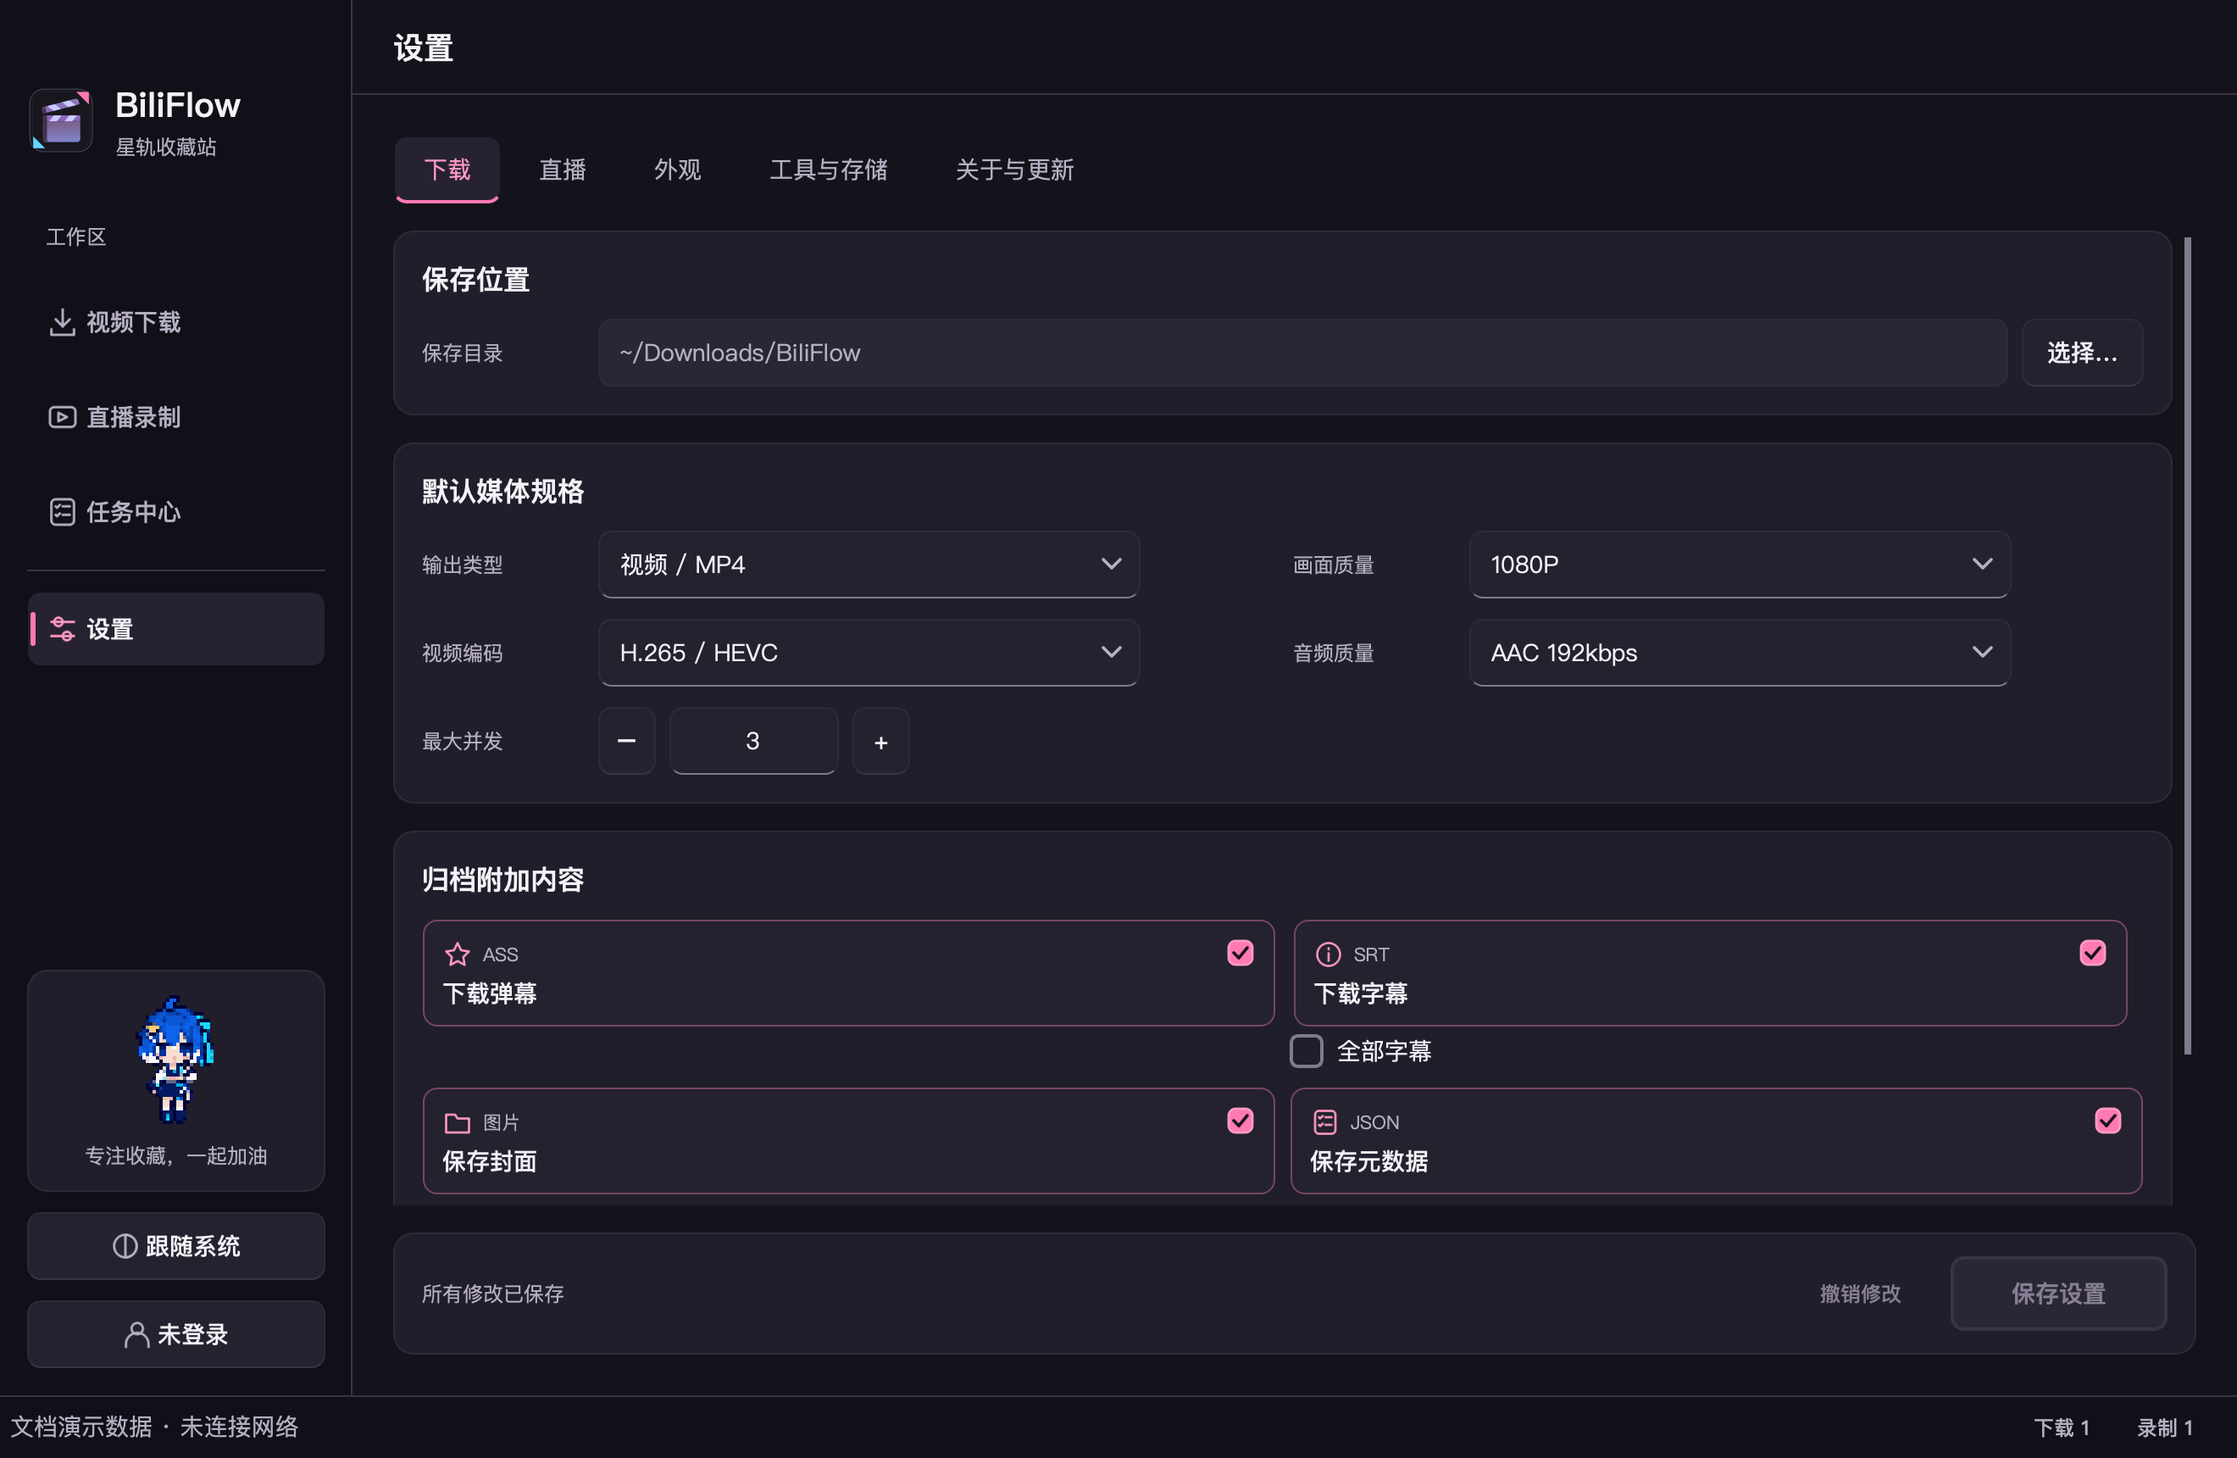
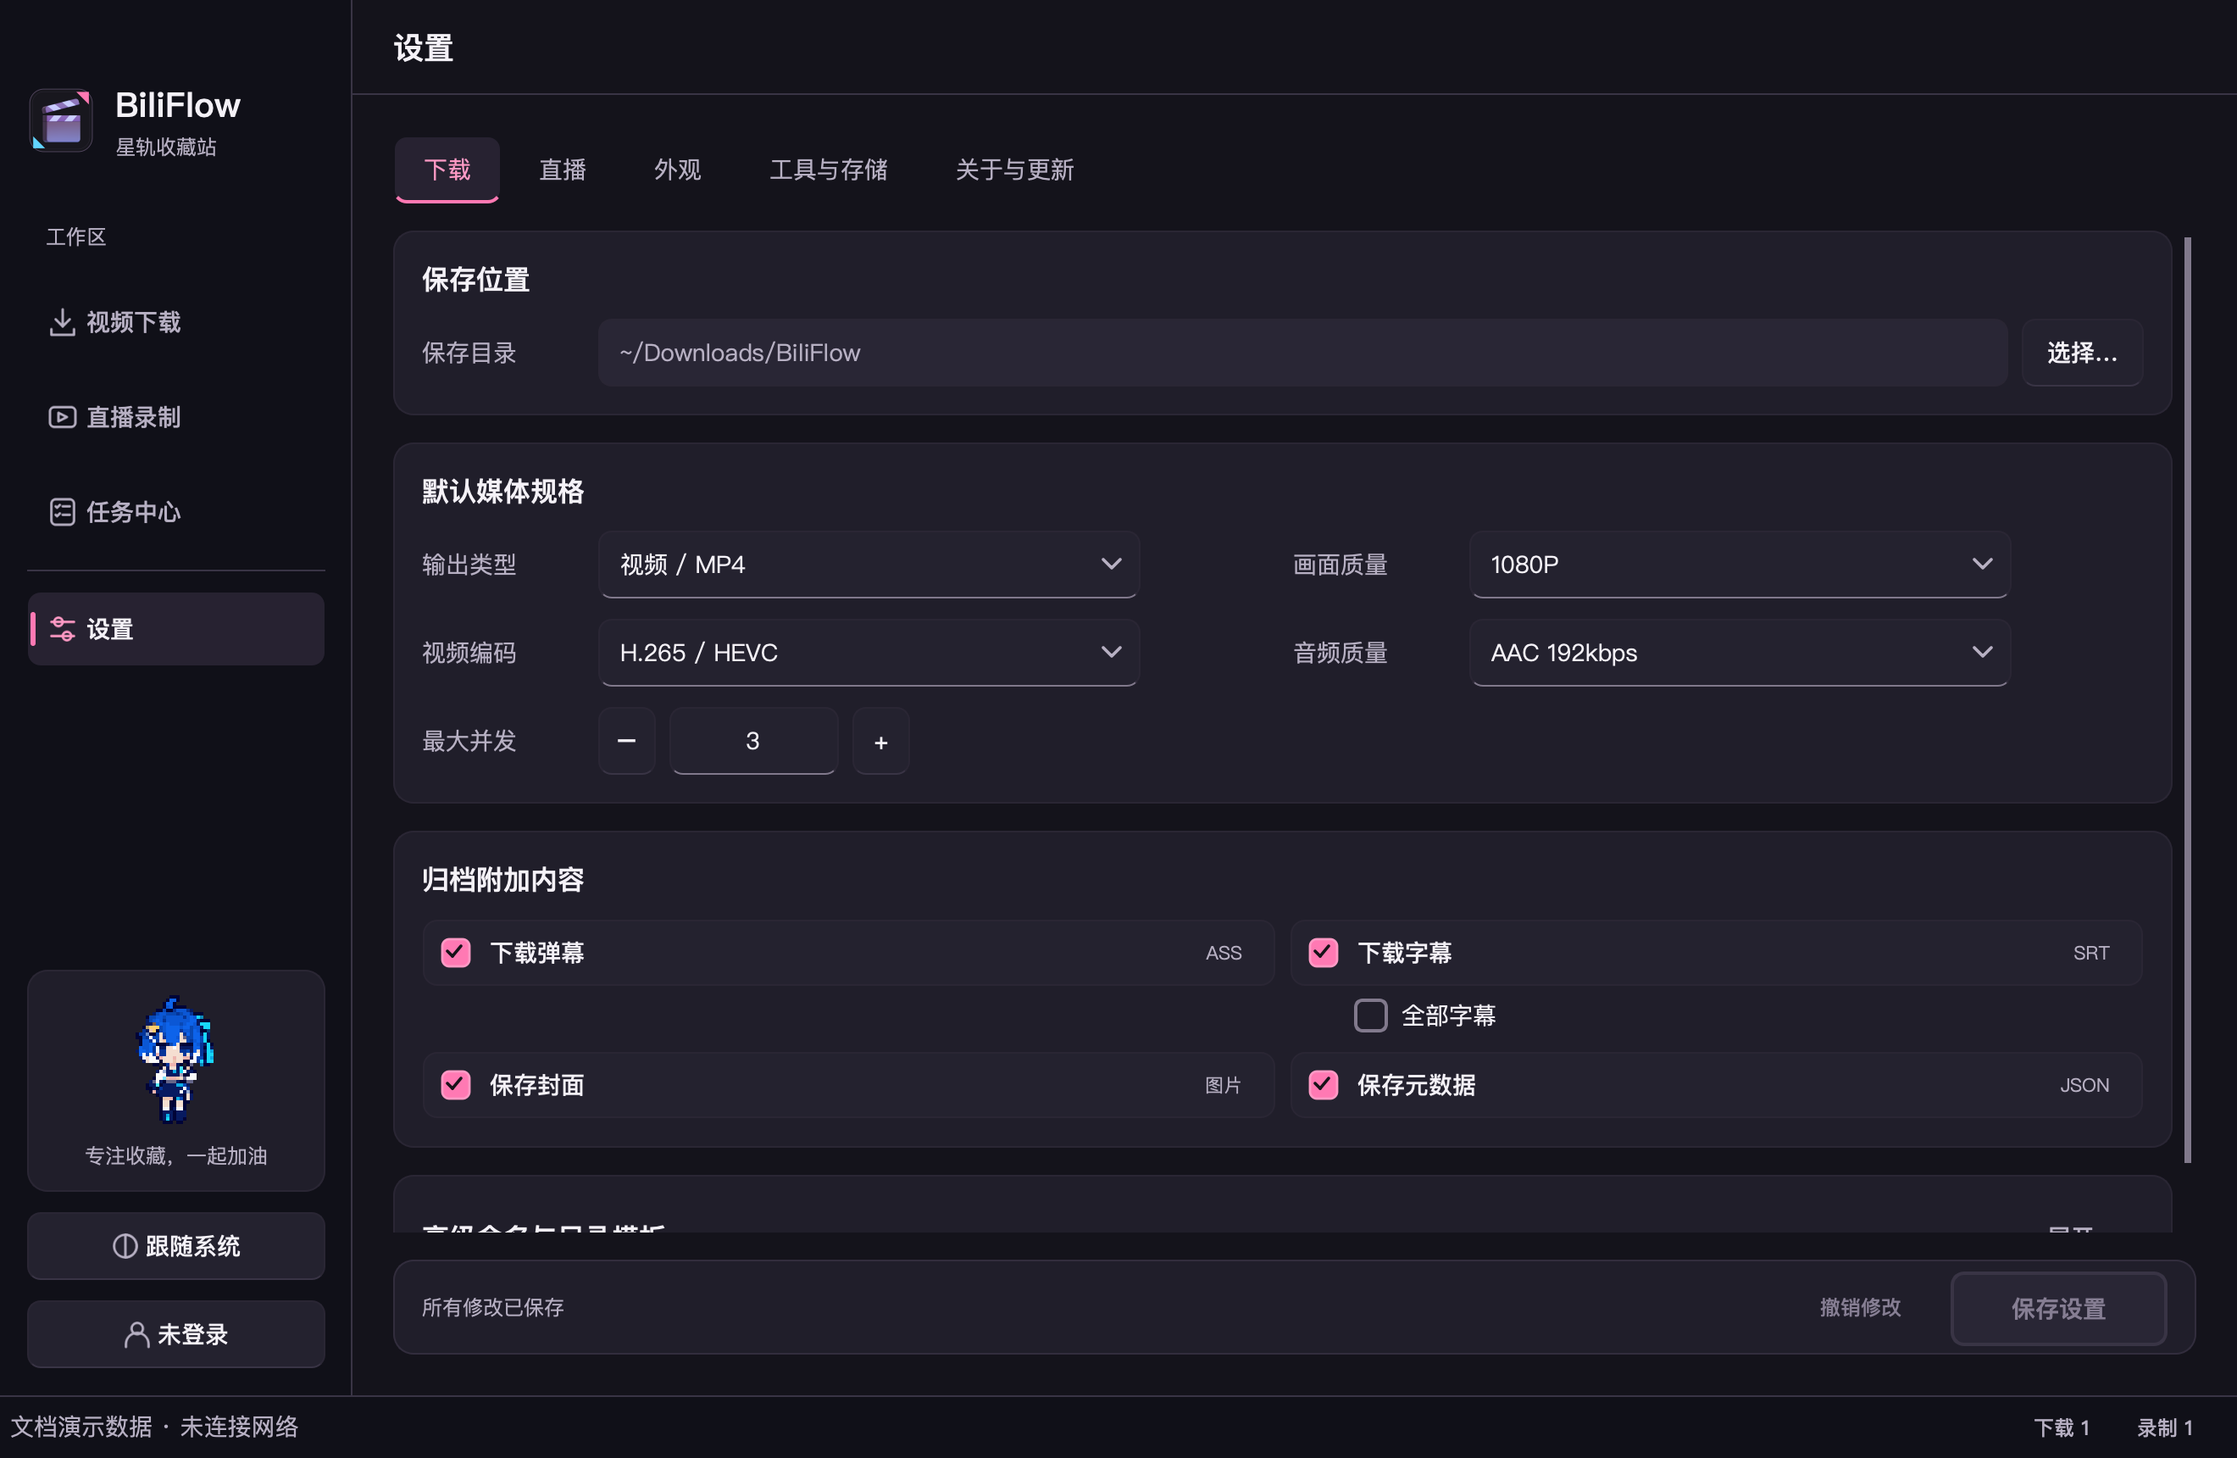
docs: document third Fluent refinement and native verification [skip ci]

diff --git a/docs/FLUENT_V3_VALIDATION.md b/docs/FLUENT_V3_VALIDATION.md
@@ -1,0 +1,71 @@
+# Fluent 第三轮精修验收
+
+2026-10-23，开发分支 `codex/fluent-design-polish`。本轮基于 `98725fe` 保存修改前截图，代码提交为 `913bd8a`；不修改 `0.8.9b2` 版本号和已有发布标签。效果图用于确认方向，实际界面保留完整字段及小窗口滚动。
+
+## 实现与前后对比
+
+| 区域 | 本轮实现 |
+| --- | --- |
+| 单个下载 | 约 68px 已解析来源区、横向作品摘要、两行标题、按实际可用宽度重排的规格与附加内容；仅音频、分 P、字幕依赖和结果失效保护保留 |
+| 附加内容 | 下载与设置共用 40px 紧凑行，显式勾选和格式标签；字幕子选项缩进排列 |
+| 设置 | 14px 字段标签、固定 56px 保存栏；草稿、撤销、字段定位、保存失败及即时主题切换语义保留 |
+| 任务中心 | 轻表头和行分隔、低频操作进入更多菜单、作用范围与数量保留、工具栏可换行；录制与历史数字列对齐 |
+| 全界面 | 普通内容、控件、确认区和浮层分别使用共享参数；账号、登录、背景图库、直播设置、详情、错误、更新与关闭弹窗同步应用 |
+
+先前使用内置 imagegen 生成的[概念图](images/fluent-v3/concept.png)用于布局参考；以下为未修改内容的实际 Qt 截图。前后两列均为离屏后端，原生截图另行保存。
+
+| 场景 | 精修前 | 精修后 |
+| --- | --- | --- |
+| 下载 · 浅色 · 1320×860 | [查看](images/fluent-v3/download-before.png) | [查看](images/fluent-v3/download-after.png) |
+| 设置 · 深色 · 900×640 | [查看](images/fluent-v3/settings-before.png) | [查看](images/fluent-v3/settings-after.png) |
+| 任务 · 深色 · 900×640 | [查看](images/fluent-v3/tasks-before.png) | [查看](images/fluent-v3/tasks-after.png) |
+
+完整本地索引为 `build/fluent-v3/index.html`，可筛选主题、模式、尺寸、背景和状态。`before/` 与 `after/` 为离屏，`native/` 为 macOS Cocoa 原生物理像素，`windows/` 为本轮 Windows CI 原生证据。截图中的账号、任务、路径及更新版本均为隔离演示数据。
+
+当前索引共 3248 张图片，包含修改前 454 张、修改后离屏 725 张、macOS 原生 861 张、Windows 原生 871 张、四档标题栏 336 张及概念图 1 张。Windows 实际截图：[下载页](images/fluent-v3/windows-download-light-1320.png) · [设置页](images/fluent-v3/windows-settings-dark-900.png) · [任务中心](images/fluent-v3/windows-tasks-dark-900.png)。两平台的 12 组主题／模式／尺寸检查及各 60 个新增状态均保持请求尺寸，新增状态未出现横向滚动。
+
+## 本机与自动验证
+
+环境：macOS arm64，Python 3.11.15，Qt 6.11.2。
+
+| 检查 | 结果 |
+| --- | --- |
+| 完整离屏 pytest | 1041 通过，5 项平台相关跳过 |
+| Cocoa 原生布局、焦点、Markdown 与生命周期专项 | 114 通过 |
+| macOS CI Python 3.12 | 原生专项 69 通过；全量 1033 通过、13 项按条件跳过 |
+| Windows CI Python 3.12 | 原生专项 69 通过；全量 1032 通过、14 项按条件跳过 |
+| Ruff、编译与 diff | 通过 |
+| 新布局专项 | 10 项，覆盖完整可见、重排保值、两行 Unicode 标题、音频模式、键盘顺序、保存栏、任务 ID、操作范围与换行 |
+
+标准窗口检查全部下载控件完整可见；900×640 保留单一外层纵向滚动与固定操作区。矩阵覆盖两套配色 × 深浅模式 × 三种尺寸，以及无图、内置背景、自定义背景、长内容、失败、未保存草稿和任务筛选。已有空状态、批量部分失败、登录、背景、保存失败、更新和生命周期测试继续执行。
+
+[CI 39912318295](https://github.com/itsVicOC/bilibili-downloader/actions/runs/39912318295) 对同一代码提交执行全平台测试、原生页面及新增状态截图，以及 Windows 100%／125%／150%／200% Qt 缩放窗口按钮专项，**15／15 项全部通过**。包含双平台冻结更新器、三平台录制引擎与依赖审计；平台相关跳过项与对应原生验证分别记录。
+
+## 对比度、性能与平台边界
+
+普通正文、辅助说明和状态文字继续检查 4.5:1，新增表头表面纳入对比度测试。用户已确认的粉底白字保持原值，以下为默认／悬停／按下的计算值，未作为普通正文合规通过项：
+
+| 配色 | 默认 | 悬停 | 按下 |
+| --- | --- | --- | --- |
+| 星河浅色 | 2.76:1 | 2.18:1 | 3.64:1 |
+| 星河深色 | 4.05:1 | 3.15:1 | 5.97:1 |
+| 晴海浅／深色 | 4.51:1 | 5.08:1 | 5.99:1 |
+
+保留共享玻璃缓存及现有动画生命周期测试；重排不重新创建业务控件，不新增轮询或逐帧样式更新。十二景原图、运行时背景、缩略图与引用未修改，运行时 24 个资源文件仍为 8,130,355 字节（7.75 MiB）。
+
+Windows 的托管原生结果与用户实机分别记录。Windows 11、100%、单屏实机，实际 Snap 浮层、系统 DPI 切换及混合 DPI 多屏仍未计为通过；macOS 原生窗口、字体和生命周期使用 Cocoa 实际运行。此次未生成或发布新安装包。
+
+## 复现
+
+```bash
+QT_QPA_PLATFORM=offscreen python -m pytest -q
+ruff check bilibili_downloader tests packaging_hooks scripts
+python -m compileall -q bilibili_downloader tests scripts
+python -m scripts.capture_docs_screenshots --output-dir build/fluent-v3/after/star_trail
+python -m scripts.capture_docs_screenshots --color-theme bilibili_blue --output-dir build/fluent-v3/after/bilibili_blue
+python -m scripts.capture_docs_screenshots --refinement-only --output-dir build/fluent-v3/after/refinement
+python -m scripts.capture_docs_screenshots --native --physical-pixels --output-dir build/fluent-v3/native/star_trail
+python -m scripts.build_fluent_review --root build/fluent-v3
+```
+
+完整视觉规范见 [Fluent Design](FLUENT_DESIGN.md)，上一轮已发布 beta 的记录见[第二轮验收](FLUENT_V2_VALIDATION.md)。

diff --git a/docs/FLUENT_DESIGN.md b/docs/FLUENT_DESIGN.md
@@ -2,6 +2,14 @@
 
 本分支采用 Fluent 2 的层级、材质和交互细节，保留 BiliFlow 的粉紫／青蓝配色、小流、工作区导航及功能流程。界面继续使用 PySide6；没有新增 UI 框架、配置迁移或业务接口变更。
 
+## 第三轮：信息层级与空间利用
+
+当前开发分支采用横向作品摘要、双列规格与紧凑附加内容列表。下载页在实际内容宽度达到 800px 时将规格与附加内容按 3:2 并排，否则上下排列；规格区内部达到 440px 时使用两列。解析后的来源卡自然高度约 68px，作品标题最多绘制两行，完整文本保留在提示中。
+
+下载与设置共用 40px 附加内容行，明确显示复选框、名称和格式；“全部字幕”缩进置于字幕行下方。设置保存栏固定为 56px，下载与直播确认区继续为 72px。任务中心将移除完成和缓存清理收进工具栏“更多”，行内更多菜单保留移除记录；工具栏空间不足时将操作放到第二行。
+
+普通内容边界、行分隔和表头采用更轻的中性色；浮层与确认区使用独立边界参数。正文和表单标签为 14px，作品标题 18px；背景资源、材质缓存、窗口适配和业务流程沿用现有实现。截图、测试与跨平台边界见[第三轮验收](FLUENT_V3_VALIDATION.md)。
+
 ## 视觉参数
 
 | 项目 | 规范 |
@@ -10,10 +18,11 @@
 | 分组／字段／组内间距 | 16／12／8 |
 | 控件／卡片圆角 | 8／12 |
 | 普通／主要／紧凑操作高度 | 40／44／32 |
-| 下载附加选项高度 | 64，保留格式说明、标题和勾选标记 |
+| 下载附加选项高度 | 40，单行展示名称、格式和勾选标记 |
+| 下载／直播确认区、设置保存栏 | 72／56，始终显示且状态变化不改变高度 |
 | Windows 窗口按钮 | 三个连续的 46×32 逻辑像素热区；矢量图标按实际 DPI 对齐 |
 | 正文／说明 | 14／12 个逻辑像素；保留原生中文字体和平台 DPI 换算 |
-| 页头／分组标题／弹窗标题 | 18／16／24 个逻辑像素 |
+| 页头／作品标题／分组标题／弹窗标题 | 18／18／16／24 个逻辑像素 |
 
 `UiMetrics` 和 `ThemePalette` 是公共样式及自绘控件的共同来源。新增的内部表面参数包括弱边框、控件底色、悬停层、弱选中层、浮层和语义状态底色。品牌色主要用于主要操作、活动状态和选中指示。表格保留列结构，百分比移到细进度条上方，避免文字跨越不同颜色的填充区域。
 

diff --git a/README.en.md b/README.en.md
@@ -76,6 +76,8 @@ Downloads, live recording, and settings share consistent footer cards. Tabs and 
 
 `v0.8.9b2` (0.8.9 beta 2) continues the [Fluent Design polish](docs/FLUENT_DESIGN.md) on `codex/fluent-design-polish`, with quieter surfaces, custom Windows caption controls, corrected maximize/restore behavior, Markdown release notes, and hand corrections in four wallpapers. The pink/purple and blue themes, Xiao Liu, pink buttons with white labels, navigation, and download/recording workflows remain available. Try the [beta 2 prerelease](https://github.com/itsVicOC/bilibili-downloader/releases/tag/v0.8.9b2), or select the update channel that includes prereleases. The stable release remains `v0.8.8`. See the [changelog](CHANGELOG.md#v089b2---2026-10-23), [second-pass validation](docs/FLUENT_V2_VALIDATION.md), and [wallpaper comparisons](docs/BACKGROUND_HAND_REVIEW.md) (Chinese).
 
+Screenshots on this branch show the third Fluent refinement: horizontal media summaries, compact extras and settings actions, and task overflow menus. These changes are not included in the beta 2 installers linked above; see the [third-pass validation](docs/FLUENT_V3_VALIDATION.md) for comparisons and verification boundaries (Chinese).
+
 ## Download and install
 
 Visit the **[BiliFlow website · 1008.si](https://1008.si/)** or **[download the latest stable release from GitHub](https://github.com/itsVicOC/bilibili-downloader/releases/latest)**. To try beta features, browse [all releases](https://github.com/itsVicOC/bilibili-downloader/releases) and look for the `Pre-release` label.

diff --git a/README.md b/README.md
@@ -74,6 +74,8 @@
 
 `v0.8.9b2`（0.8.9 beta 2）基于 `codex/fluent-design-polish` 分支继续 [Fluent Design 精修](docs/FLUENT_DESIGN.md)：统一中性材质与状态反馈，修复 Windows 窗口按钮的底色、悬停和最大化／还原行为，支持 Markdown 更新说明，并修正四张背景的手部。保留粉紫／青蓝、小流、粉底白字、现有导航及下载／录制流程。试用请查看 [beta 2 预发布版](https://github.com/itsVicOC/bilibili-downloader/releases/tag/v0.8.9b2)；自动更新需选择包含预发布版的通道。稳定版仍为 `v0.8.8`。[更新日志](CHANGELOG.md#v089b2---2026-10-23) · [第二轮验收](docs/FLUENT_V2_VALIDATION.md) · [背景手部对比](docs/BACKGROUND_HAND_REVIEW.md)。
 
+当前分支的截图展示第三轮 Fluent 精修：横向作品摘要、紧凑附加内容与设置保存栏、任务更多菜单。该轮改动尚未纳入上述 beta 2 安装包，效果对照与验证范围见[第三轮验收](docs/FLUENT_V3_VALIDATION.md)。
+
 ## 下载与安装
 
 访问 **[BiliFlow 官网 · 1008.si](https://1008.si/)** 了解项目，或直接从 **[GitHub Releases 下载最新正式版](https://github.com/itsVicOC/bilibili-downloader/releases/latest)**。想体验 beta 功能，可查看[全部版本](https://github.com/itsVicOC/bilibili-downloader/releases)；预发布版会带有 `Pre-release` 标记。

diff --git a/docs/UI_DESIGN.md b/docs/UI_DESIGN.md
@@ -1,5 +1,9 @@
 # BiliFlow 视觉规范与验证
 
+## 第三轮 Fluent 精修（2026-10-23，开发分支）
+
+下载页采用横向作品摘要、响应式双列规格与 40px 附加内容行，设置保存栏压缩至固定 56px，任务中心收拢低频操作并支持工具栏换行。共用表面、表头、字段标签、菜单与弹窗同步调整，保留现有配色、小流和背景。当前实现不修改版本号或发布标签；[第三轮验收](FLUENT_V3_VALIDATION.md)记录效果图对照、前后截图、测试及实际平台验证范围。
+
 ## 第二轮 Fluent 精修（2026-10-23，开发分支）
 
 Windows 主窗口改为自绘窗口按钮，默认底色与页头连续，移除分层标题栏裁剪；更新说明使用主题化 Markdown 阅读区，十二景中四张手部得到修正。共用控件进一步采用中性状态层与弱描边，页签保留键盘焦点并消除鼠标操作后的整圈焦点框。当前规则见 [Fluent 规范](FLUENT_DESIGN.md)，结果与验证边界见[第二轮验收](FLUENT_V2_VALIDATION.md)。以下章节保留历次迭代记录。

diff --git a/docs/README.md b/docs/README.md
@@ -4,6 +4,8 @@
 
 项目入口：[官方网站 · 1008.si](https://1008.si/) · [中文 README](../README.md) · [English README](../README.en.md)。详细指南目前以简体中文为主。
 
+当前 `codex/fluent-design-polish` 开发分支进一步完成第三轮界面精修，截图和验证见[第三轮验收](FLUENT_V3_VALIDATION.md)。本分支的新布局尚未随新版本发布，下方 beta 2 链接保留其既有发布内容。
+
 `v0.8.9b2`（0.8.9 beta 2）基于 `codex/fluent-design-polish` 分支提供第二轮 Fluent 精修。Windows 自绘按钮、Markdown 更新说明、背景手部与截图记录见[第二轮验收](FLUENT_V2_VALIDATION.md)和[背景手部复核](BACKGROUND_HAND_REVIEW.md)。
 
 `v0.8.9b1`（0.8.9 beta1）的界面规范见 [Fluent Design 精修](FLUENT_DESIGN.md)，包含设计参数、动效规则与视觉验证方法；粉底白字、文本选区及 Windows 标题栏悬停的结果见[可读性验收记录](UI_READABILITY_VALIDATION.md)。
